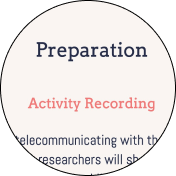
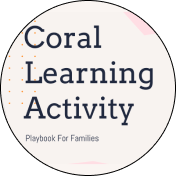
update images activities

diff --git a/src/Components/ActivityPage.js b/src/Components/ActivityPage.js
@@ -11,43 +11,33 @@ export function ActivityPageCoral(props) {
                         </div>
                         <div className="activityTextSection col-5">
                             <h2>{"Coral Learning Activity"}</h2>
-                            <p>{"The pix2pix model works by training paired images, and tries to generate a corresponding output image from any input image children provide. Children can draw the image on the left side, and coppersponding picture will be produced based on the input. "} </p>
+                            <p>{"In this activity, family will play two games together and learn how to classify and sumarise different images of corals"} </p>
                             <br></br>
                             <div>
                                 <hr></hr>
                                 <div className="d-flex justify-content-around">
                                     <div className="d-flex justify-content-start">
-                                        <img src="/public/image/apDiff.png" alt="Difficulty" className="actDesImg"></img>
+                                        <img src={process.env.PUBLIC_URL +"/image/apDiff.png"} alt="Difficulty" className="actDesImg"></img>
                                         <p style={{ color: 'grey' }}>{"Easy"} </p>
                                     </div>
                                     <div className="d-flex justify-content-start">
-                                        <img src="/image/apAge.png" alt="Age Group" className="actDesImg"></img>
+                                        <img src={process.env.PUBLIC_URL +"/image/apAge.png"} alt="Age Group" className="actDesImg"></img>
                                         <p style={{ color: 'grey' }}>{"Ages 10-15"} </p>
                                     </div>
                                     <div className="d-flex justify-content-start">
-                                        <img src="/image/apTime.png" alt="Time" className="actDesImg"></img>
+                                        <img src={process.env.PUBLIC_URL +"/image/apTime.png"} alt="Time" className="actDesImg"></img>
                                         <p style={{ color: 'grey' }}>{"20-30min"} </p>
                                     </div>
                                 </div>
                                 <hr></hr>
                                 <br></br>
                                 <br></br>
-                                {/* <div className="d-flex justify-content-around">
-                                    <div className="d-flex justify-content-start">
-                                        <img src="/image/apBadge.png" alt="Badges" className="actDesImg"></img>
-                                        <p style={{ color: 'grey' }}>{"Star Badge"} </p>
-                                    </div>
-                                </div>
-                                <hr></hr> */}
-                                {/* <div className="d-flex justify-content-start">
-                                </div>
-                                <hr></hr> */}
                                 <div className="d-flex justify-content-around">
                                     <a href={'https://coralandtest.herokuapp.com/'}>
-                                        <button type="button" className="btn btn-playground border-dark" id="playBtn">{"Try Classification"}</button>
+                                        <button type="button" className="btn btn-playground border-dark" id="playBtn">{"Classify Game"}</button>
                                     </a>
                                     <a href={'https://coralandanchor.herokuapp.com/'}>
-                                        <button type="button" className="btn btn-playground border-dark" id="playBtn">{"Try Anchor"}</button>
+                                        <button type="button" className="btn btn-playground border-dark" id="playBtn">{"Anchor Game"}</button>
                                     </a>
                                     {/* <button type="button" className="btn btn-modify" id="modifyBtn">{"Modify Game"}</button> */}
                                     {/* <button type="button" className="btn btn-light bg-white border-dark" id="starBtn">{"Activity Printout"}</button> */}
@@ -68,13 +58,13 @@ export function ActivityPageCoral(props) {
                             <img src={process.env.PUBLIC_URL +"/image/CoralPrep.png"} alt="NA" className="NA"></img>
                         </div>
                         <div className="activityContent">
-                            <p style={{ color: 'grey' }}>{"Preparation Instruction"} </p>
+                            <p style={{ color: 'grey' }}>{"Family Playbook"}</p>
                         </div>
                     </div>
 
                     <div className="d-flex flex-column">
                         <div>
-                            <img src="/image/CoralAnchor.png" alt="NA" className="NA"></img>
+                            <img src={process.env.PUBLIC_URL +"/image/CoralAnchor.png"} alt="NA" className="NA"></img>
                         </div>
                         <div className="activityContent">
                             <p style={{ color: 'grey' }}>{"Anchor Instruction"} </p>
@@ -83,7 +73,7 @@ export function ActivityPageCoral(props) {
 
                     <div className="d-flex flex-column">
                         <div>
-                            <img src="/image/CoralClas.png" alt="NA" className="NA"></img>
+                            <img src={process.env.PUBLIC_URL +"/image/CoralClas.png"} alt="NA" className="NA"></img>
                         </div>
                         <div className="activityContent">
                             <p style={{ color: 'grey' }}>{"Classfication Instruction"} </p>
@@ -92,11 +82,11 @@ export function ActivityPageCoral(props) {
 
                     <div className="d-flex flex-column col-5">
                         <h2>{"Learning Materials"}</h2>
-                        <p>{"Printouts for this activity design"} </p>
+                        <p>{"Playbook & instructions for this activity"} </p>
                         <br></br>
                         <div>
                             <a href={'https://docs.google.com/presentation/d/1tvyBCk8xiLA3IBuW0q7cBTICYWzdlyz-cuaCPHPpLhw/edit#slide=id.p'}>
-                                <button type="button" className="btn btn-light bg-white border-dark" id="downloadBtn">{"Download"}</button>
+                            <button type="button" className="btn btn-playground border-dark" id="playBtn">{"Explore"}</button>
                             </a>
                         </div>
                     </div>
@@ -110,12 +100,12 @@ export function ActivityPageCoral(props) {
                         {/* <textarea rows="10" cols="80"></textarea> */}
                         <br></br>
                         <div>
-                            <a href={'https://www.google.com/'}>
+                            <a href={'https://forms.gle/uLDjfvcbYwUDrJJ29'}>
                                 <button type="button" className="btn btn-playground border-dark" id="comBtn">{"Feedback Form"}</button>
                             </a>
                         </div>
                         <br></br>
-                        <p>{"(The above button is a place holder; it actually links to Google)"}</p>
+
                         <br></br>
                         <br></br>
                         <br></br>
@@ -199,7 +189,7 @@ export function ActivityPageScavenger(props) {
                 <section className="innerMachineLearning">
                     <div className="d-flex">
                         <div className="image">
-                            <img src="/image/GamePage__scavengerHunt.png" alt="Scavenger Hunt" className="activityPage"></img>
+                            <img src={process.env.PUBLIC_URL +"/image/GamePage__scavengerHunt.png"} alt="Scavenger Hunt" className="activityPage"></img>
                         </div>
                         <div className="activityTextSection col-5">
                             <h2>{"Scavenger Hunt"}</h2>
@@ -209,15 +199,15 @@ export function ActivityPageScavenger(props) {
                                 <hr></hr>
                                 <div className="d-flex justify-content-around">
                                     <div className="d-flex justify-content-start">
-                                        <img src="/image/apDiff.png" alt="Difficulty" className="actDesImg"></img>
+                                        <img src={process.env.PUBLIC_URL +"/image/apDiff.png"} alt="Difficulty" className="actDesImg"></img>
                                         <p style={{ color: 'grey' }}>{"Moderate"} </p>
                                     </div>
                                     <div className="d-flex justify-content-start">
-                                        <img src="/image/apAge.png" alt="Age Group" className="actDesImg"></img>
+                                        <img src={process.env.PUBLIC_URL +"/image/apAge.png"} alt="Age Group" className="actDesImg"></img>
                                         <p style={{ color: 'grey' }}>{"Ages 10-16"} </p>
                                     </div>
                                     <div className="d-flex justify-content-start">
-                                        <img src="/image/apTime.png" alt="Time" className="actDesImg"></img>
+                                        <img src={process.env.PUBLIC_URL +"/image/apTime.png"} alt="Time" className="actDesImg"></img>
                                         <p style={{ color: 'grey' }}>{"10-15min"} </p>
                                     </div>
                                 </div>
@@ -245,7 +235,7 @@ export function ActivityPageScavenger(props) {
 
                     <div className="d-flex flex-column">
                         <div>
-                            <img src="/image/LM_scavengerHunt_1.png" alt="NA" className="NA"></img>
+                            <img src={process.env.PUBLIC_URL +"/image/LM_scavengerHunt_1.png"} alt="NA" className="NA"></img>
                         </div>
                         <div className="activityContent">
                             <p style={{ color: 'grey' }}>{"Activity Introduction"} </p>
@@ -254,7 +244,7 @@ export function ActivityPageScavenger(props) {
 
                     <div className="d-flex flex-column">
                         <div>
-                            <img src="/image/LM_scavengerHunt_2.png" alt="NA" className="NA"></img>
+                            <img src={process.env.PUBLIC_URL +"/image/LM_scavengerHunt_2.png"} alt="NA" className="NA"></img>
                         </div>
                         <div className="activityContent">
                             <p style={{ color: 'grey' }}>{"Activity Instruction"} </p>
@@ -263,7 +253,7 @@ export function ActivityPageScavenger(props) {
 
                     <div className="d-flex flex-column">
                         <div>
-                            <img src="/image/LM_scavengerHunt_3.png" alt="NA" className="NA"></img>
+                            <img src={process.env.PUBLIC_URL +"/image/LM_scavengerHunt_3.png"} alt="NA" className="NA"></img>
                         </div>
                         <div className="activityContent">
                             <p style={{ color: 'grey' }}>{"Activity Demostration"} </p>
@@ -294,7 +284,7 @@ export function ActivityPageScavenger(props) {
                             </a>
                         </div>
                         <br></br>
-                        <p>{"(The above button is a place holder; it actually links to Google)"}</p>
+                        {/* <p>{"(The above button is a place holder; it actually links to Google)"}</p> */}
                         <br></br>
                         <br></br>
                         <br></br>
@@ -313,7 +303,7 @@ export function ActivityPageDesign(props) {
                 <section className="innerInteractiveCoding">
                     <div className="d-flex">
                         <div className="image">
-                            <img src="/image/GamePage_analyzeAi.png" alt="Design and Analyze AI" className="activityPage"></img>
+                            <img src={process.env.PUBLIC_URL +"/image/GamePage_analyzeAi.png"} alt="Design and Analyze AI" className="activityPage"></img>
                         </div>
                         <div className="activityTextSection col-5">
                             <h2>{"Design & Analyze AI"}</h2>
@@ -323,7 +313,7 @@ export function ActivityPageDesign(props) {
                                 <hr></hr>
                                 <div className="d-flex justify-content-around">
                                     <div className="d-flex justify-content-start">
-                                        <img src="/image/apDiff.png" alt="Difficulty" className="actDesImg"></img>
+                                        <img src={process.env.PUBLIC_URL +"/image/apDiff.png"} alt="Difficulty" className="actDesImg"></img>
                                         <p style={{ color: 'grey' }}>{"Easy"} </p>
                                     </div>
                                     <div className="d-flex justify-content-start">
@@ -365,7 +355,7 @@ export function ActivityPageDesign(props) {
 
                     <div className="d-flex flex-column">
                         <div>
-                            <img src="/image/LM_analyzeAi_2.png" alt="NA" className="NA"></img>
+                            <img src={process.env.PUBLIC_URL +"/image/LM_analyzeAi_2.png"} alt="NA" className="NA"></img>
                         </div>
                         <div className="activityContent">
                             <p style={{ color: 'grey' }}>{"Analyze AI Worksheet"} </p>
@@ -374,7 +364,7 @@ export function ActivityPageDesign(props) {
 
                     <div className="d-flex flex-column">
                         <div>
-                            <img src="/image/LM_analyzeAi_3.png" alt="NA" className="NA"></img>
+                            <img src={process.env.PUBLIC_URL +"/image/LM_analyzeAi_3.png"} alt="NA" className="NA"></img>
                         </div>
                         <div className="activityContent">
                             <p style={{ color: 'grey' }}>{"Design AI Worksheet"} </p>
@@ -424,7 +414,7 @@ export function ActivityPageAsk(props) {
                 <section className="innerVoiceAssistants">
                     <div className="d-flex">
                         <div className="image">
-                            <img src="/image/GamePage_askAI.png" alt="Ask AI" className="activityPage"></img>
+                            <img src={process.env.PUBLIC_URL +"/image/GamePage_askAI.png"} alt="Ask AI" className="activityPage"></img>
                         </div>
                         <div className="activityTextSection col-5">
                             <h2>{"Ask AI"}</h2>
@@ -434,15 +424,15 @@ export function ActivityPageAsk(props) {
                                 <hr></hr>
                                 <div className="d-flex justify-content-around">
                                     <div className="d-flex justify-content-start">
-                                        <img src="/image/apDiff.png" alt="Difficulty" className="actDesImg"></img>
+                                        <img src={process.env.PUBLIC_URL +"/image/apDiff.png"} alt="Difficulty" className="actDesImg"></img>
                                         <p style={{ color: 'grey' }}>{"Easy"} </p>
                                     </div>
                                     <div className="d-flex justify-content-start">
-                                        <img src="/image/apAge.png" alt="Age Group" className="actDesImg"></img>
+                                        <img src={process.env.PUBLIC_URL +"/image/apAge.png"} alt="Age Group" className="actDesImg"></img>
                                         <p style={{ color: 'grey' }}>{"Ages 6-16"} </p>
                                     </div>
                                     <div className="d-flex justify-content-start">
-                                        <img src="/image/apTime.png" alt="Time" className="actDesImg"></img>
+                                        <img src={process.env.PUBLIC_URL +"/image/apTime.png"} alt="Time" className="actDesImg"></img>
                                         <p style={{ color: 'grey' }}>{"25-35min"} </p>
                                     </div>
                                 </div>
@@ -467,7 +457,7 @@ export function ActivityPageAsk(props) {
 
                     <div className="d-flex flex-column">
                         <div>
-                            <img src="/image/LM_askAi_1.png" alt="NA" className="NA"></img>
+                            <img src={process.env.PUBLIC_URL +"/image/LM_askAi_1.png"} alt="NA" className="NA"></img>
                         </div>
                         <div className="activityContent">
                             <p style={{ color: 'grey' }}>{"Activity Worksheet"} </p>
@@ -476,7 +466,7 @@ export function ActivityPageAsk(props) {
 
                     <div className="d-flex flex-column">
                         <div>
-                            <img src="/image/LM_askAi_2.png" alt="NA" className="NA"></img>
+                            <img src={process.env.PUBLIC_URL +"/image/LM_askAi_2.png"} alt="NA" className="NA"></img>
                         </div>
                         <div className="activityContent">
                             <p style={{ color: 'grey' }}>{"Question Sheet"} </p>
@@ -485,7 +475,7 @@ export function ActivityPageAsk(props) {
 
                     <div className="d-flex flex-column">
                         <div>
-                            <img src="/image/LM_askAi_3.png" alt="NA" className="NA"></img>
+                            <img src={process.env.PUBLIC_URL +"/image/LM_askAi_3.png"} alt="NA" className="NA"></img>
                         </div>
                         <div className="activityContent">
                             <p style={{ color: 'grey' }}>{"Question Sheet"} </p>
@@ -516,7 +506,6 @@ export function ActivityPageAsk(props) {
                             </a>
                         </div>
                         <br></br>
-                        <p>{"(The above button is a place holder; it actually links to Google)"}</p>
                         <br></br>
                         <br></br>
                         <br></br>
